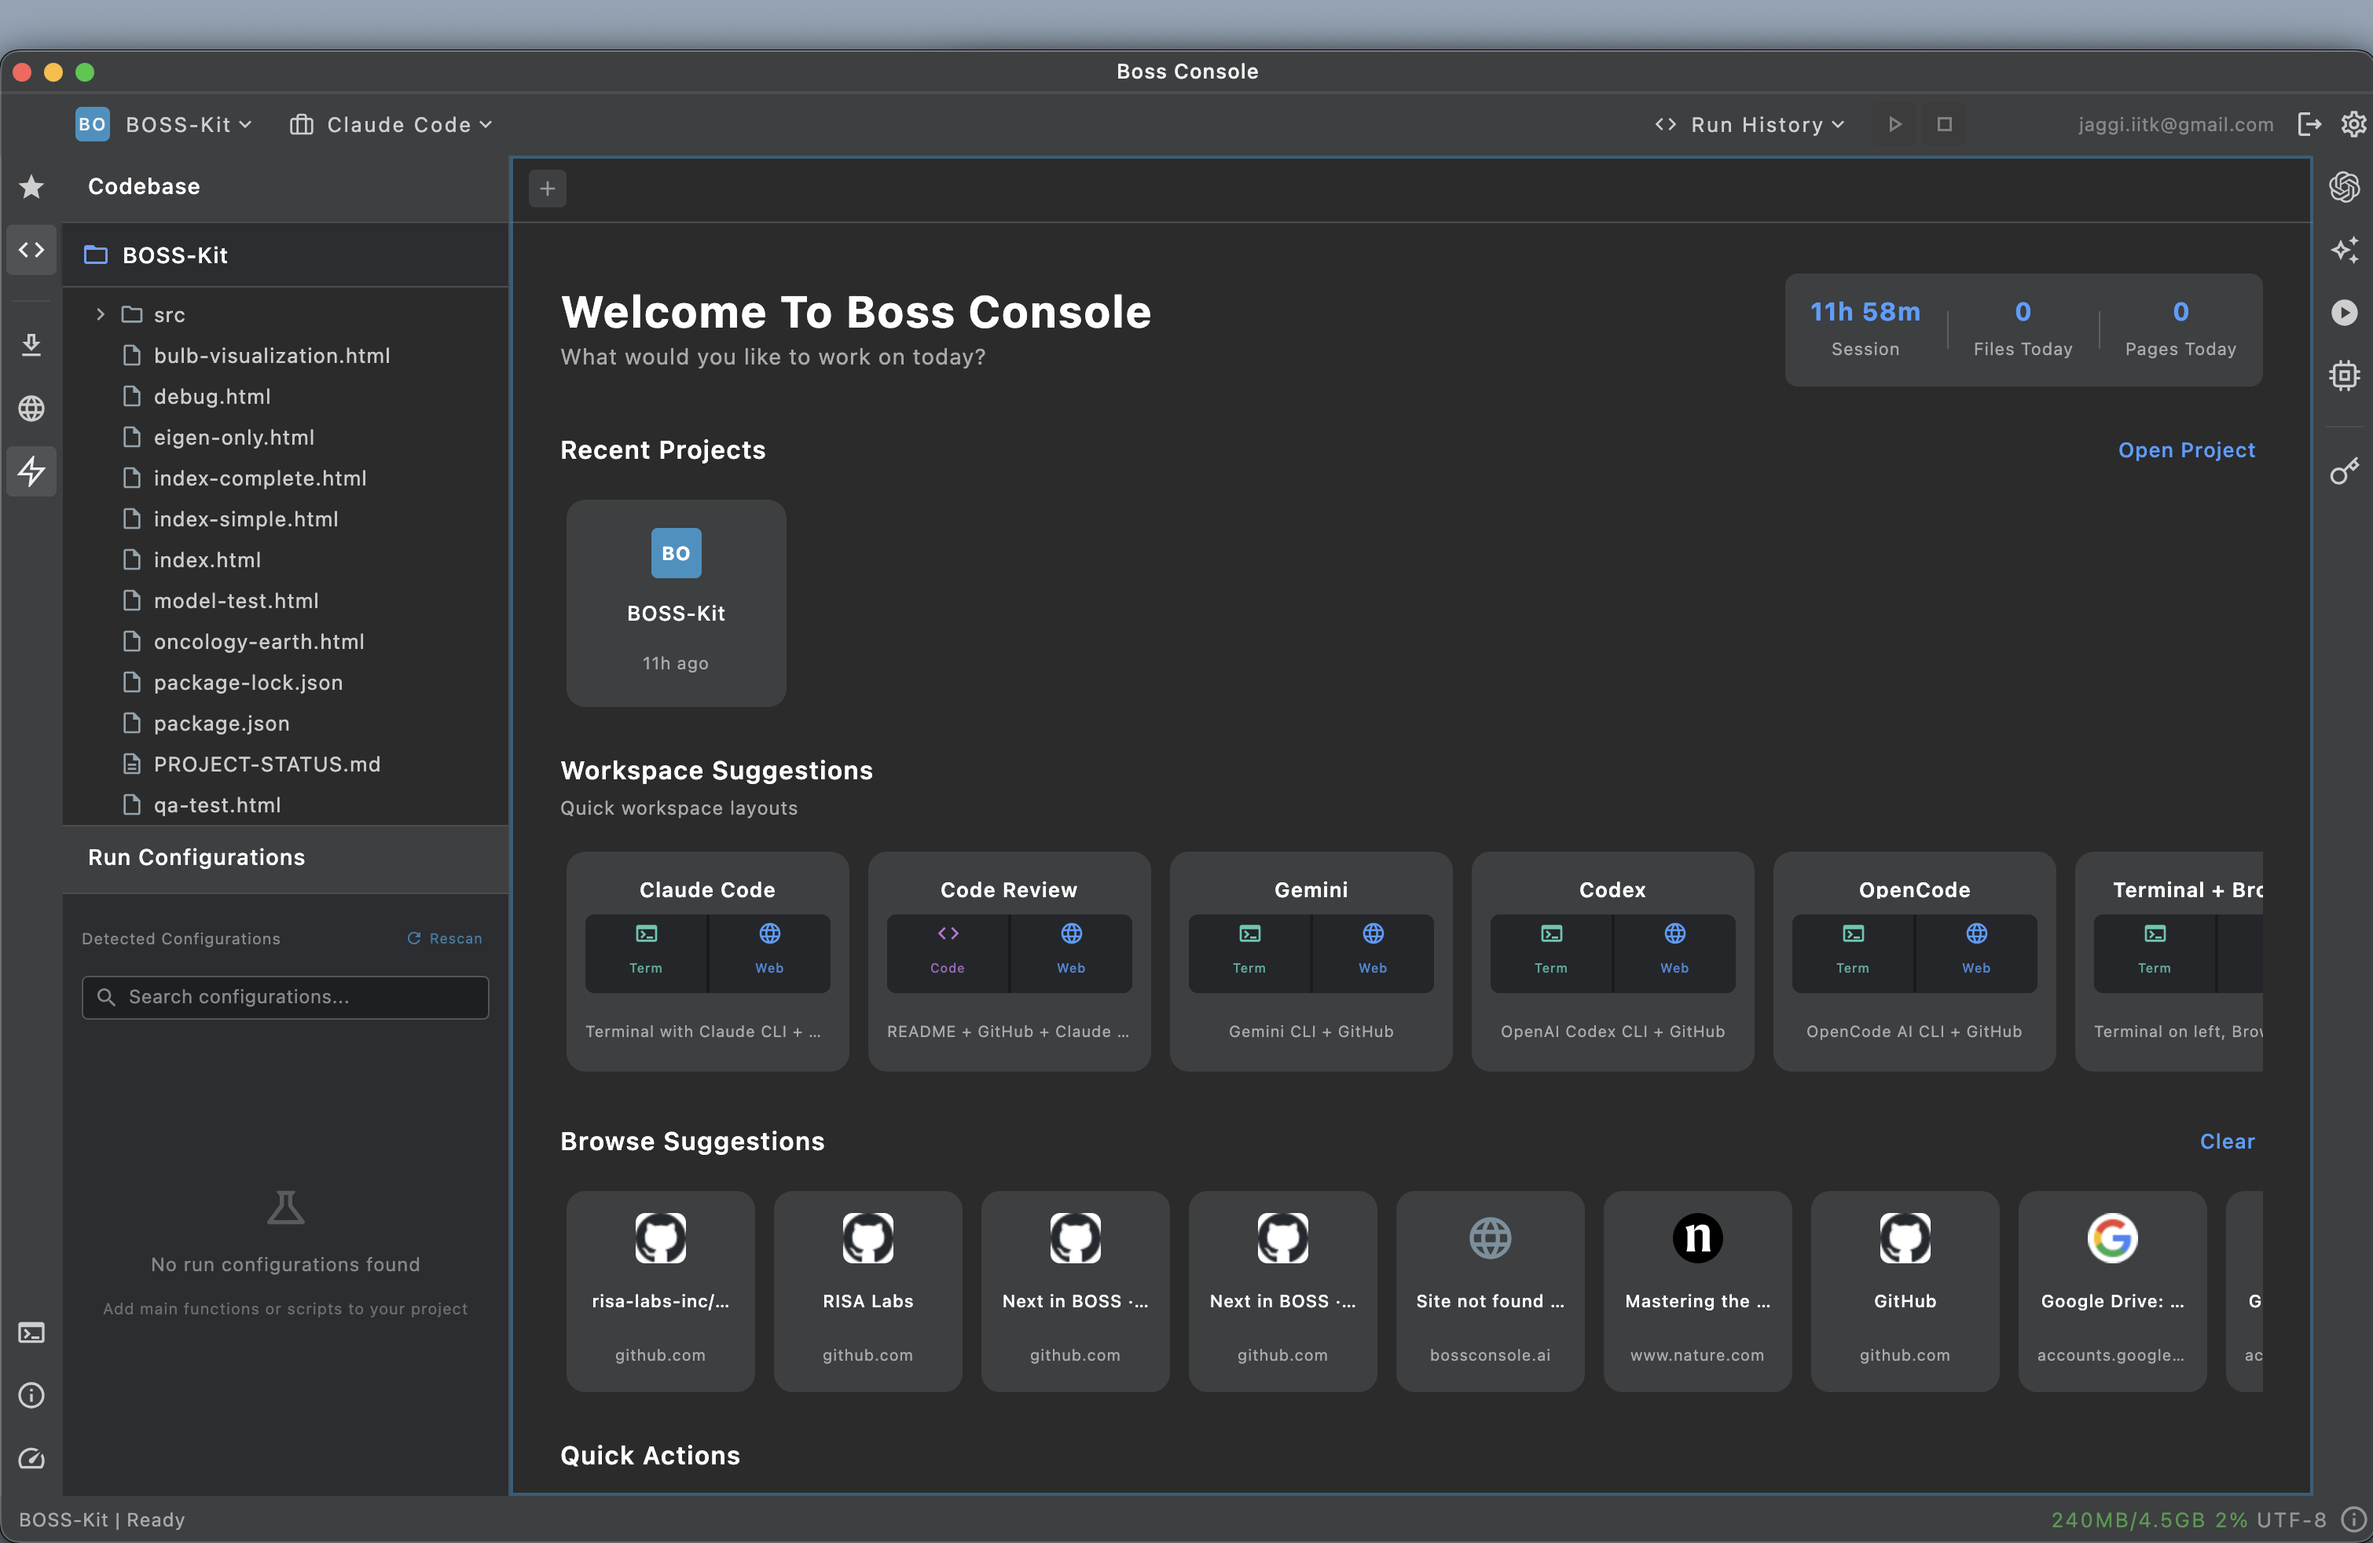
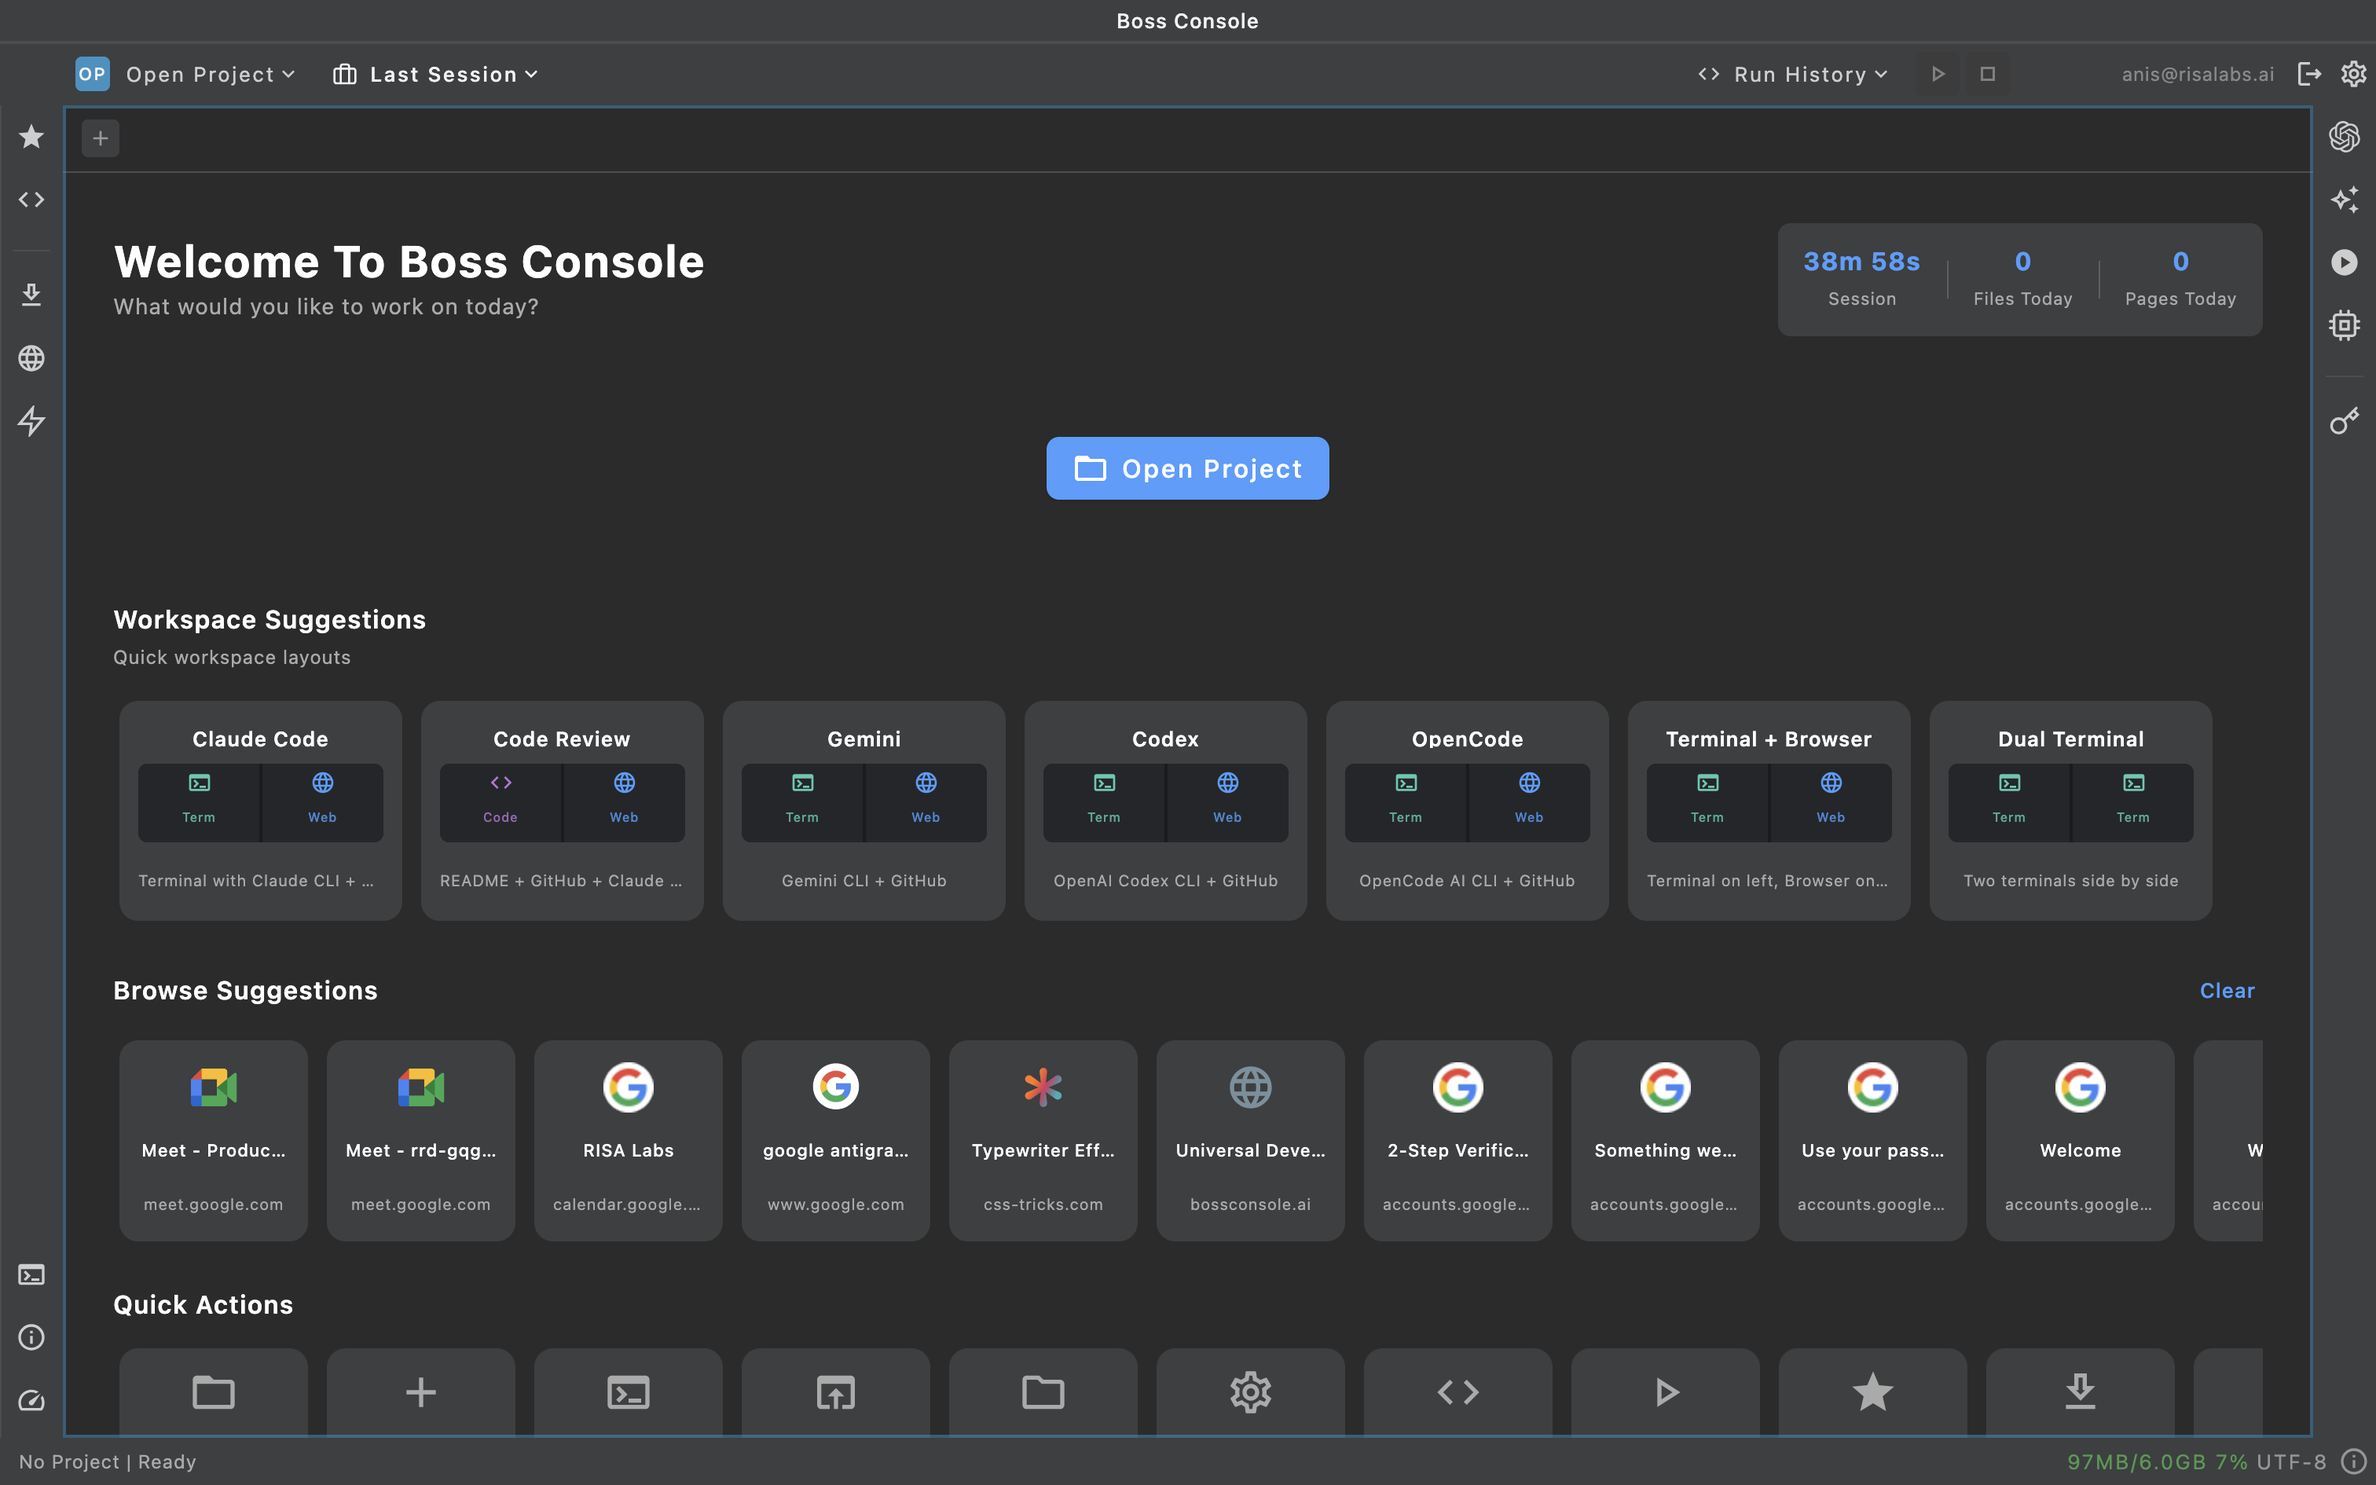
Update homepage screenshot with new BOSS Console image
- Add new screenshot showing updated interface
- Update image reference from .jpeg to .png

diff --git a/src/app/App.tsx b/src/app/App.tsx
@@ -268,7 +268,7 @@ function HomePage({ release, loading, error }: HomePageProps) {
           {/* BOSS Console Screenshot */}
           <div className="mb-16">
             <img
-              src="/boss-console-screenshot.jpeg"
+              src="/boss-console-screenshot.png"
               alt="BOSS Console Interface"
               className="w-full max-w-5xl mx-auto rounded-lg shadow-2xl"
             />
